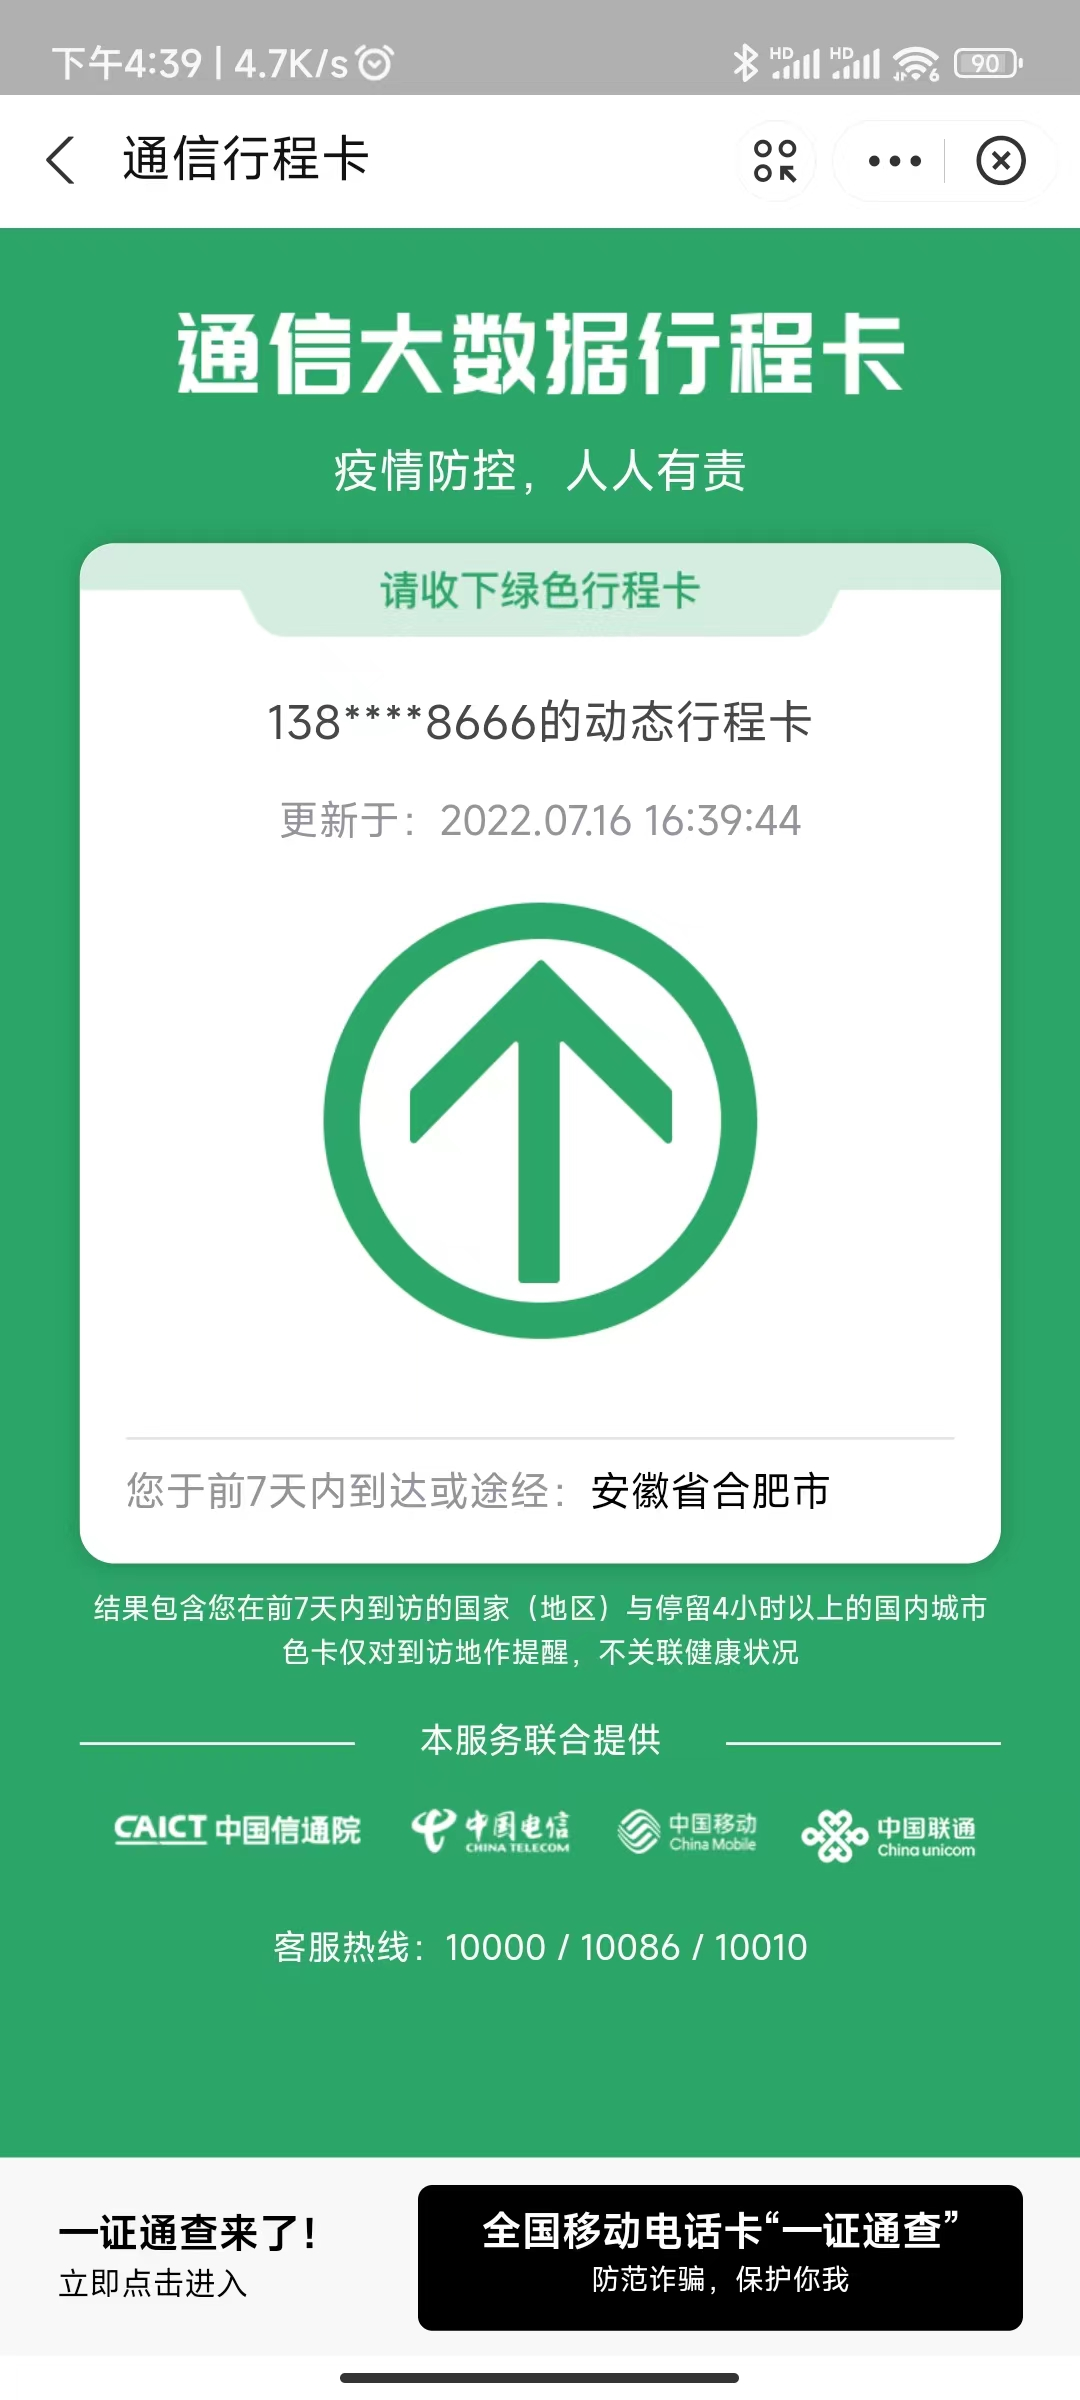
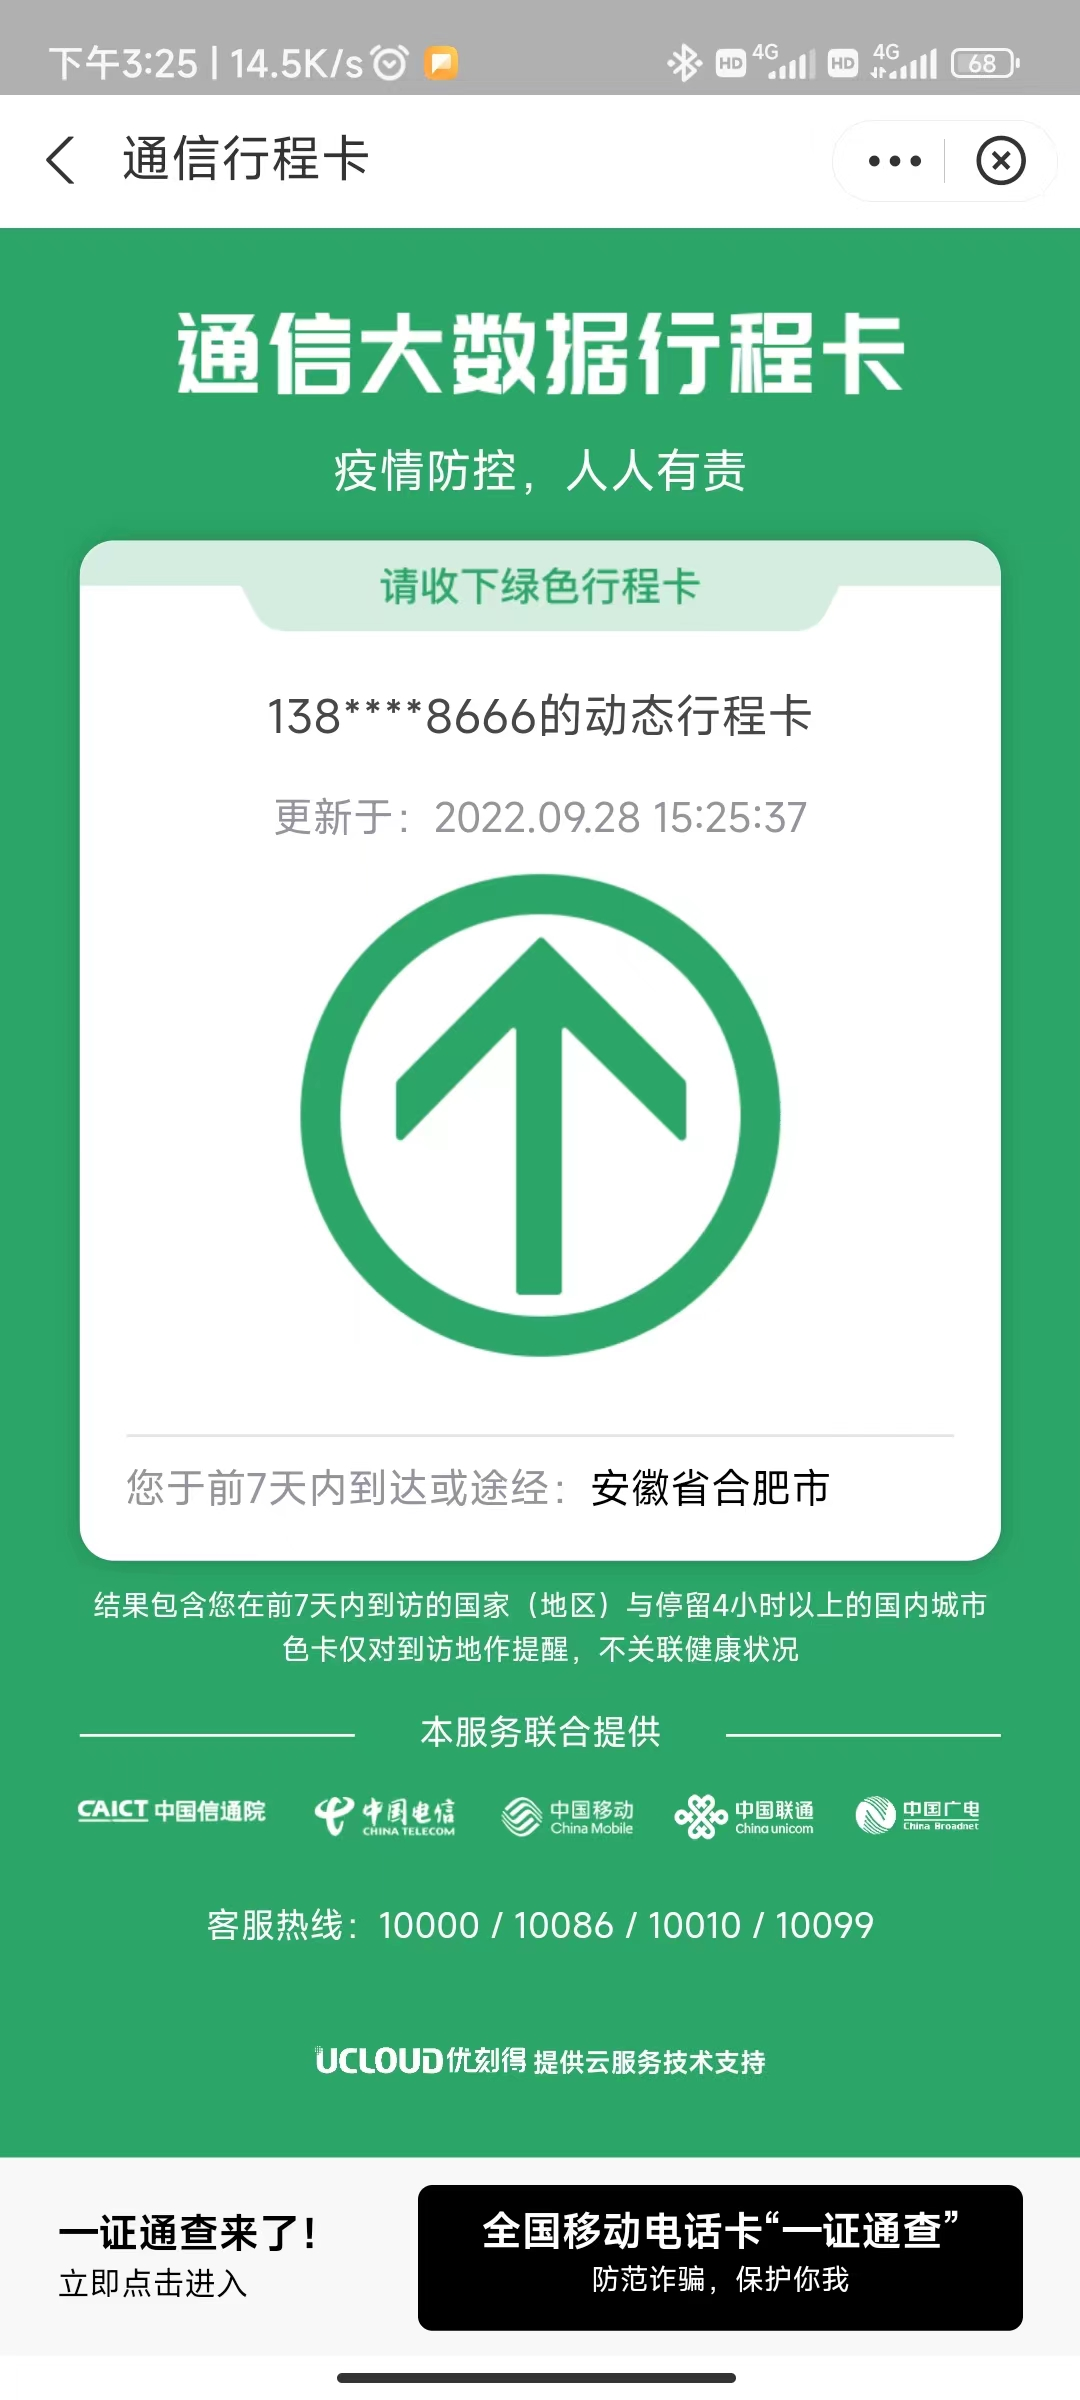
update xcm

diff --git a/runme.py b/runme.py
@@ -1,6 +1,9 @@
 import argparse
 from Report import Report
-
+'''
+workflow运行内容
+先把参数内容打包
+'''
 report_data = [
     ("juzhudi", "高新校区"),  # 居住地
     ("dorm_building", "2"),  # 宿舍楼
@@ -26,21 +29,22 @@ cross_campus_data = [
     ("return_college[]", "南校区"),  # 往返校区
     ("return_college[]", "北校区"),  # 往返校区
     ("return_college[]", "中校区"),  # 往返校区
-    ("reason", "上课"),  # 原因
+    ("reason", "实验室"),  # 原因
 ]
 out_school_data = [
     ("return_college[]", "蜀山区"),  # 目的地
     ("return_college[]", "包河区"),  # 目的地
     ("return_college[]", "瑶海区"),  # 目的地
     ("return_college[]", "庐阳区"),  # 目的地
-    ("reason", "玩"),  # 原因
+    ("reason", "实验室"),  # 原因
 ]
 if __name__ == "__main__":
     parser = argparse.ArgumentParser(
         description="URC nCov auto report script.")
     parser.add_argument("stuid", help="your student number", type=str)
-    parser.add_argument("password", help="your CAS password", type=str)
+    parser.add_argument("password", help="your CAS password", type=str) #workflow中给出学号和密码(相当于命令行)
     args = parser.parse_args()
+    #调用report函数
     autorepoter = Report(stuid=args.stuid, password=args.password)
     count = 5
     while count != 0:

diff --git a/newtime.py b/newtime.py
@@ -13,6 +13,6 @@ dr = ImageDraw.Draw(im)
 font = ImageFont.truetype("arial.ttf", bbox[4])
 
 dr.text((0, 0), time.strftime("%Y.%m.%d %H:%M:%S",
-                              time.localtime(time.time()+8*3600-30)), color, font)
+                              time.localtime(time.time()+8*3600)), color, font)
 img[bbox[1]:bbox[3], bbox[0]:bbox[2], :] = cv2.resize(np.array(im), shp)
 cv2.imwrite("xcm.jpg", img)
